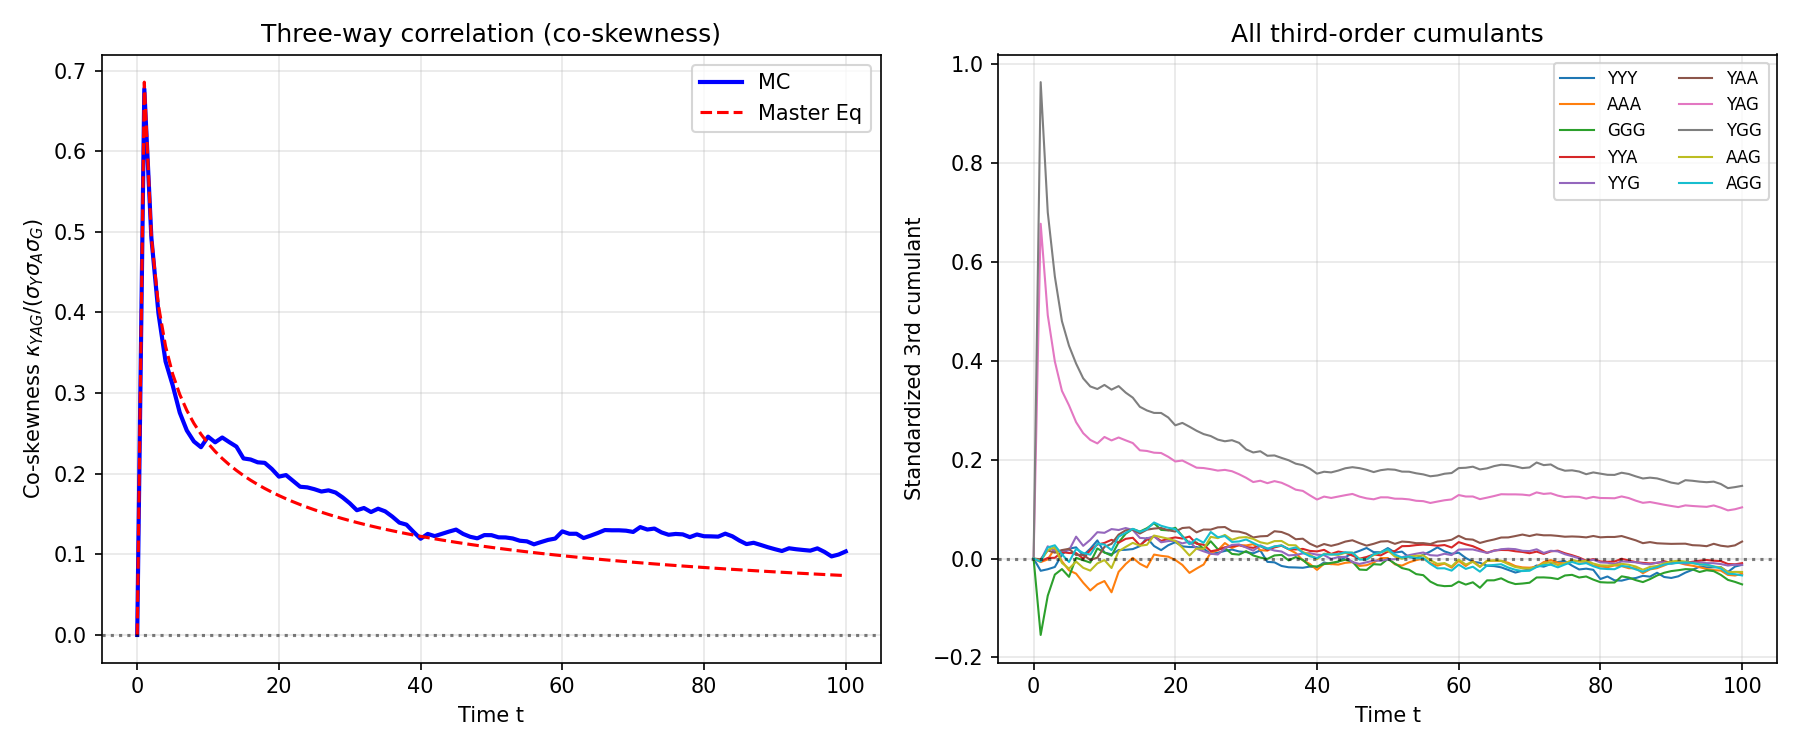
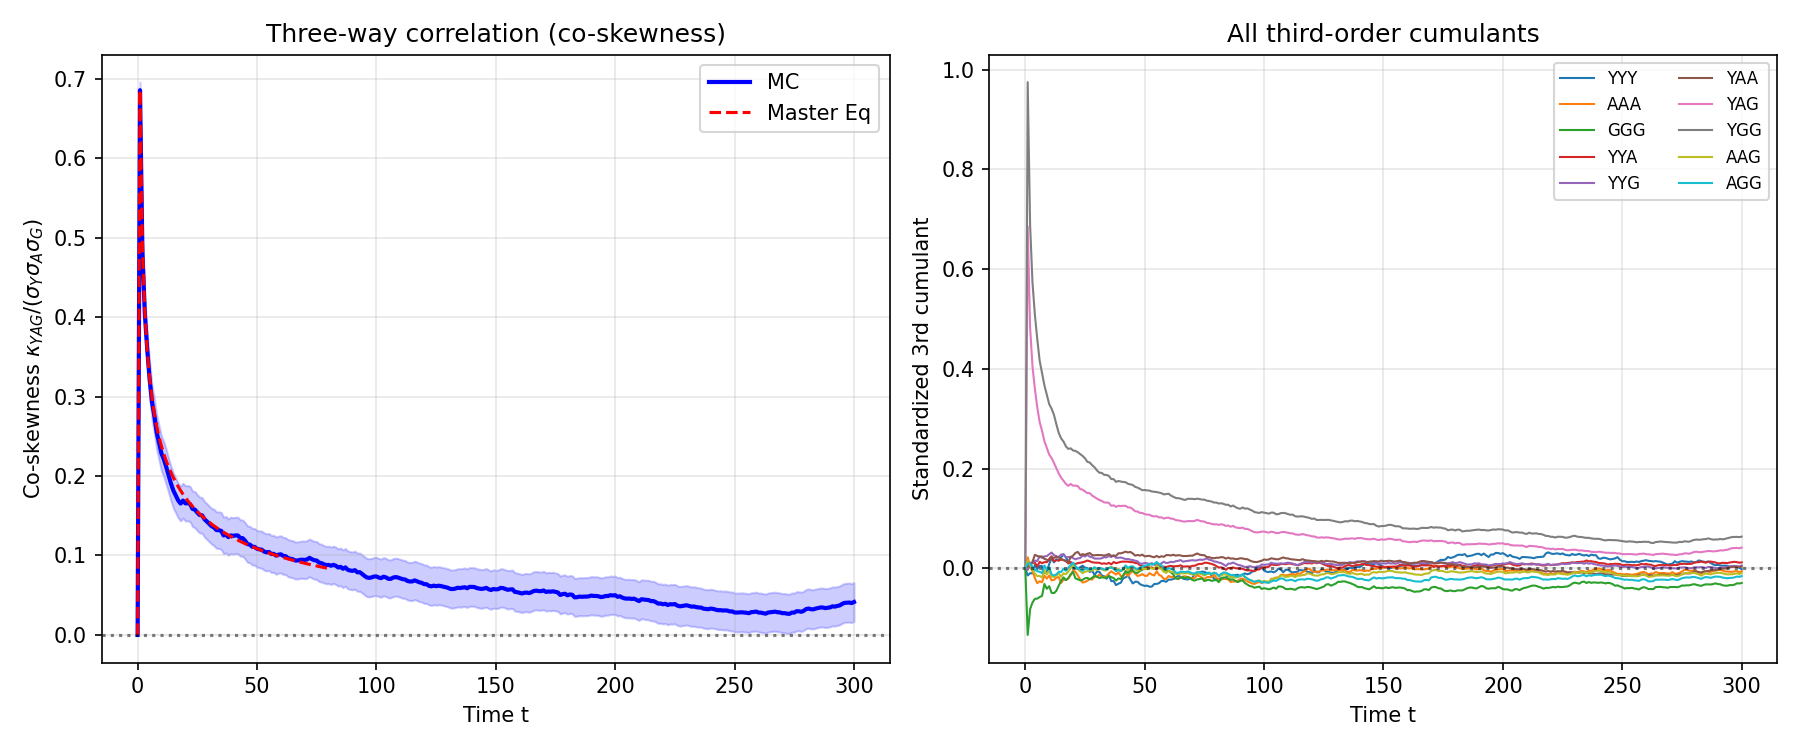
Improve 3D probit bandit analysis: extended time horizon, more samples, uncertainty bands
Changes to src/probit_bandit_3d.py:
- Extended Monte Carlo time horizon from T=100 to T=300
- Reduced Master Equation horizon to T=80 (due to O(T^3) state space growth)
- Increased MC sample count from 5000 to 20000 for smoother estimates
- Added standard error computation for all cumulants (third_se, fourth_se)
- Added fill_between() uncertainty bands (2 SE) to all relevant plots
- Updated plotting functions to accept and display uncertainty bands

Changes to tex/probit_3d_gaussianity.tex:
- Fixed state space complexity from O(T^2) to O(T^3) (correct for 3D case)

Updated figures now show:
- Smoother MC curves with 20k samples
- Shaded uncertainty bands around MC estimates
- Extended time axis to T=300
- Master equation (red dashed) only up to T=80

Key numerical results at T=300:
- Max |skewness|: 0.030 (approaching Gaussian)
- Max |excess kurtosis|: 0.028 (approaching Gaussian)
- Co-skewness: 0.042 (decays slower than marginals, as expected)

The analysis confirms late-time Gaussian convergence in the 3D (Y, A, G)
sufficient statistic formulation, consistent with CLT intuition.

🤖 Generated with [Claude Code](https://claude.com/claude-code)

diff --git a/src/probit_bandit_3d.py b/src/probit_bandit_3d.py
@@ -118,6 +118,8 @@ class ProbitBandit3D:
         covs : array of shape (T_horizon+1, 3, 3)
         third_moments : dict of third-order cumulants
         fourth_moments : dict of fourth-order cumulants
+        third_se : dict of standard errors for third-order cumulants
+        fourth_se : dict of standard errors for fourth-order cumulants
         """
         if seed is not None:
             np.random.seed(seed)
@@ -139,9 +141,11 @@ class ProbitBandit3D:
         for t in range(T_horizon + 1):
             covs[t] = np.cov(samples[:, t, :].T)
 
-        # Compute standardized third and fourth cumulants
+        # Compute standardized third and fourth cumulants with standard errors
         third_cumulants = {}
         fourth_cumulants = {}
+        third_se = {}
+        fourth_se = {}
 
         for t in range(T_horizon + 1):
             centered = samples[:, t, :] - means[t]
@@ -155,18 +159,22 @@ class ProbitBandit3D:
                         key = (i, j, k)
                         if key not in third_cumulants:
                             third_cumulants[key] = np.zeros(T_horizon + 1)
-                        third_cumulants[key][t] = np.mean(
-                            standardized[:, i] * standardized[:, j] * standardized[:, k]
-                        )
+                            third_se[key] = np.zeros(T_horizon + 1)
+                        vals = standardized[:, i] * standardized[:, j] * standardized[:, k]
+                        third_cumulants[key][t] = np.mean(vals)
+                        third_se[key][t] = np.std(vals) / np.sqrt(n_samples)
 
             # Fourth-order (kurtosis-like) - just diagonal for now
             for i in range(3):
                 key = (i, i, i, i)
                 if key not in fourth_cumulants:
                     fourth_cumulants[key] = np.zeros(T_horizon + 1)
-                fourth_cumulants[key][t] = np.mean(standardized[:, i]**4) - 3  # Excess
+                    fourth_se[key] = np.zeros(T_horizon + 1)
+                vals = standardized[:, i]**4 - 3  # Excess
+                fourth_cumulants[key][t] = np.mean(vals)
+                fourth_se[key][t] = np.std(vals) / np.sqrt(n_samples)
 
-        return means, covs, third_cumulants, fourth_cumulants
+        return means, covs, third_cumulants, fourth_cumulants, third_se, fourth_se
 
 
 class MasterEquation3D:
@@ -309,8 +317,9 @@ class MasterEquation3D:
 
 def plot_gaussianity_convergence(means_mc, covs_mc, third_mc, fourth_mc,
                                   means_me=None, covs_me=None, third_me=None, fourth_me=None,
+                                  third_se=None, fourth_se=None,
                                   figname='../fig/probit_3d_gaussianity.png'):
-    """Plot convergence to Gaussianity."""
+    """Plot convergence to Gaussianity with uncertainty bands."""
 
     T = len(means_mc) - 1
     t_arr = np.arange(T + 1)
@@ -321,7 +330,11 @@ def plot_gaussianity_convergence(means_mc, covs_mc, third_mc, fourth_mc,
     labels_3 = ['Y', 'A', 'G']
     for i, (key, label) in enumerate(zip([(0,0,0), (1,1,1), (2,2,2)], labels_3)):
         ax = axes[0, i]
-        ax.plot(t_arr, third_mc[key], 'b-', label='MC', linewidth=1.5)
+        y = third_mc[key]
+        ax.plot(t_arr, y, 'b-', label='MC', linewidth=1.5)
+        if third_se is not None and key in third_se:
+            se = third_se[key]
+            ax.fill_between(t_arr, y - 2*se, y + 2*se, color='blue', alpha=0.2)
         if third_me is not None and key in third_me:
             ax.plot(t_arr[:len(third_me[key])], third_me[key], 'r--',
                    label='Master Eq', linewidth=1.5)
@@ -336,7 +349,11 @@ def plot_gaussianity_convergence(means_mc, covs_mc, third_mc, fourth_mc,
     for i, (idx, label) in enumerate(zip([0, 1, 2], labels_3)):
         ax = axes[1, i]
         key = (idx, idx, idx, idx)
-        ax.plot(t_arr, fourth_mc[key], 'b-', label='MC', linewidth=1.5)
+        y = fourth_mc[key]
+        ax.plot(t_arr, y, 'b-', label='MC', linewidth=1.5)
+        if fourth_se is not None and key in fourth_se:
+            se = fourth_se[key]
+            ax.fill_between(t_arr, y - 2*se, y + 2*se, color='blue', alpha=0.2)
         if fourth_me is not None and key in fourth_me:
             ax.plot(t_arr[:len(fourth_me[key])], fourth_me[key], 'r--',
                    label='Master Eq', linewidth=1.5)
@@ -353,8 +370,8 @@ def plot_gaussianity_convergence(means_mc, covs_mc, third_mc, fourth_mc,
     print(f'Saved: {figname}')
 
 
-def plot_coskewness(third_mc, third_me=None, figname='../fig/probit_3d_coskewness.png'):
-    """Plot co-skewness evolution."""
+def plot_coskewness(third_mc, third_me=None, third_se=None, figname='../fig/probit_3d_coskewness.png'):
+    """Plot co-skewness evolution with uncertainty bands."""
     T = len(third_mc[(0,0,0)]) - 1
     t_arr = np.arange(T + 1)
 
@@ -362,7 +379,11 @@ def plot_coskewness(third_mc, third_me=None, figname='../fig/probit_3d_coskewnes
 
     # Left: Co-skewness kappa_YAG
     ax = axes[0]
-    ax.plot(t_arr, third_mc[(0,1,2)], 'b-', label='MC', linewidth=2)
+    y = third_mc[(0,1,2)]
+    ax.plot(t_arr, y, 'b-', label='MC', linewidth=2)
+    if third_se is not None and (0,1,2) in third_se:
+        se = third_se[(0,1,2)]
+        ax.fill_between(t_arr, y - 2*se, y + 2*se, color='blue', alpha=0.2)
     if third_me is not None and (0,1,2) in third_me:
         ax.plot(t_arr[:len(third_me[(0,1,2)])], third_me[(0,1,2)], 'r--',
                label='Master Eq', linewidth=1.5)
@@ -470,8 +491,9 @@ def plot_correlation_matrix(covs_mc, figname='../fig/probit_3d_correlations.png'
 
 def plot_summary_figure(means_mc, covs_mc, third_mc, fourth_mc,
                         means_me=None, covs_me=None, third_me=None, fourth_me=None,
+                        third_se=None, fourth_se=None,
                         figname='../fig/probit_3d_summary.png'):
-    """Generate a comprehensive summary figure."""
+    """Generate a comprehensive summary figure with uncertainty bands."""
     T = len(means_mc) - 1
     t_arr = np.arange(T + 1)
 
@@ -482,7 +504,11 @@ def plot_summary_figure(means_mc, covs_mc, third_mc, fourth_mc,
     # Row 1, Col 1-3: Marginal skewnesses
     for i, (key, label) in enumerate(zip([(0,0,0), (1,1,1), (2,2,2)], labels)):
         ax = axes[0, i]
-        ax.plot(t_arr, third_mc[key], 'b-', linewidth=2)
+        y = third_mc[key]
+        ax.plot(t_arr, y, 'b-', linewidth=2)
+        if third_se is not None and key in third_se:
+            se = third_se[key]
+            ax.fill_between(t_arr, y - 2*se, y + 2*se, color='blue', alpha=0.2)
         if third_me is not None and key in third_me:
             ax.plot(t_arr[:len(third_me[key])], third_me[key], 'r--', linewidth=1.5)
         ax.axhline(0, color='k', linestyle=':', alpha=0.5)
@@ -493,7 +519,11 @@ def plot_summary_figure(means_mc, covs_mc, third_mc, fourth_mc,
 
     # Row 1, Col 4: Co-skewness
     ax = axes[0, 3]
-    ax.plot(t_arr, third_mc[(0,1,2)], 'purple', linewidth=2, label='Co-skewness')
+    y = third_mc[(0,1,2)]
+    ax.plot(t_arr, y, 'purple', linewidth=2, label='Co-skewness')
+    if third_se is not None and (0,1,2) in third_se:
+        se = third_se[(0,1,2)]
+        ax.fill_between(t_arr, y - 2*se, y + 2*se, color='purple', alpha=0.2)
     ax.axhline(0, color='k', linestyle=':', alpha=0.5)
     ax.set_xlabel('Time t')
     ax.set_ylabel(r'$\kappa_{YAG}$')
@@ -504,7 +534,11 @@ def plot_summary_figure(means_mc, covs_mc, third_mc, fourth_mc,
     for i, (idx, label) in enumerate(zip([0, 1, 2], labels)):
         ax = axes[1, i]
         key = (idx, idx, idx, idx)
-        ax.plot(t_arr, fourth_mc[key], 'b-', linewidth=2)
+        y = fourth_mc[key]
+        ax.plot(t_arr, y, 'b-', linewidth=2)
+        if fourth_se is not None and key in fourth_se:
+            se = fourth_se[key]
+            ax.fill_between(t_arr, y - 2*se, y + 2*se, color='blue', alpha=0.2)
         if fourth_me is not None and key in fourth_me:
             ax.plot(t_arr[:len(fourth_me[key])], fourth_me[key], 'r--', linewidth=1.5)
         ax.axhline(0, color='k', linestyle=':', alpha=0.5)
@@ -546,29 +580,32 @@ def main():
     beta = 0.5
     eta_plus = 0.6
     eta_minus = 0.4
-    T_horizon = 100
-    n_samples = 5000
+    T_horizon = 300  # Extended time horizon (MC only beyond ~80)
+    T_master = 80    # Master equation limit due to O(T^3) state space
+    n_samples = 20000  # More samples for smoother curves
 
     print(f'Parameters:')
     print(f'  m_plus = {m_plus}, m_minus = {m_minus}')
     print(f'  beta = {beta}')
     print(f'  eta_plus = {eta_plus}, eta_minus = {eta_minus}')
-    print(f'  T_horizon = {T_horizon}')
+    print(f'  T_horizon (MC) = {T_horizon}')
+    print(f'  T_horizon (Master Eq) = {T_master}')
+    print(f'  n_samples = {n_samples}')
     print()
 
     # Monte Carlo
     print('Running Monte Carlo simulation...')
     bandit = ProbitBandit3D(m_plus, m_minus, beta, eta_plus, eta_minus)
-    means_mc, covs_mc, third_mc, fourth_mc = bandit.monte_carlo_moments(
+    means_mc, covs_mc, third_mc, fourth_mc, third_se, fourth_se = bandit.monte_carlo_moments(
         T_horizon, n_samples=n_samples, seed=42
     )
     print(f'  Completed {n_samples} trajectories')
     print()
 
-    # Master equation
+    # Master equation (shorter time due to O(T^3) state space)
     print('Running Master Equation...')
     master = MasterEquation3D(m_plus, m_minus, beta, eta_plus, eta_minus)
-    distributions = master.evolve(T_horizon)
+    distributions = master.evolve(T_master)
     means_me, covs_me, third_me, fourth_me = master.compute_moments(distributions)
     print()
 
@@ -578,10 +615,11 @@ def main():
 
     # Figure 1: Main gaussianity convergence (2x3 grid)
     plot_gaussianity_convergence(means_mc, covs_mc, third_mc, fourth_mc,
-                                  means_me, covs_me, third_me, fourth_me)
+                                  means_me, covs_me, third_me, fourth_me,
+                                  third_se, fourth_se)
 
     # Figure 2: Co-skewness and all third-order cumulants
-    plot_coskewness(third_mc, third_me)
+    plot_coskewness(third_mc, third_me, third_se)
 
     # Figure 3: Means and variances
     plot_means_and_covariance(means_mc, covs_mc, means_me, covs_me)
@@ -591,7 +629,8 @@ def main():
 
     # Figure 5: Comprehensive summary (2x4 grid)
     plot_summary_figure(means_mc, covs_mc, third_mc, fourth_mc,
-                        means_me, covs_me, third_me, fourth_me)
+                        means_me, covs_me, third_me, fourth_me,
+                        third_se, fourth_se)
 
     # Summary table
     print()
@@ -599,7 +638,7 @@ def main():
     print()
     print('t      | skew(Y)    | skew(A)    | skew(G)    | co-skew    | kurt(Y)    | kurt(A)    | kurt(G)')
     print('-' * 105)
-    for t in [0, 10, 25, 50, 75, 100]:
+    for t in [0, 25, 50, 100, 150, 200, 300]:
         if t <= T_horizon:
             sk_Y = third_mc[(0,0,0)][t]
             sk_A = third_mc[(1,1,1)][t]

diff --git a/tex/probit_3d_gaussianity.tex b/tex/probit_3d_gaussianity.tex
@@ -113,7 +113,7 @@ $a=-1$ & $y=0$ & $(Y,A,G) \to (Y,A-1,G)$ & $P_- \cdot (1-\eta_-)$ \\
 \end{tabular}
 \end{center}
 
-The state space grows as $O(T^2)$, limiting the master equation to $T \lesssim 100$.
+The state space grows as $O(T^3)$, limiting the master equation to $T \lesssim 100$.
 
 \subsection{Monte Carlo Simulation}
 
